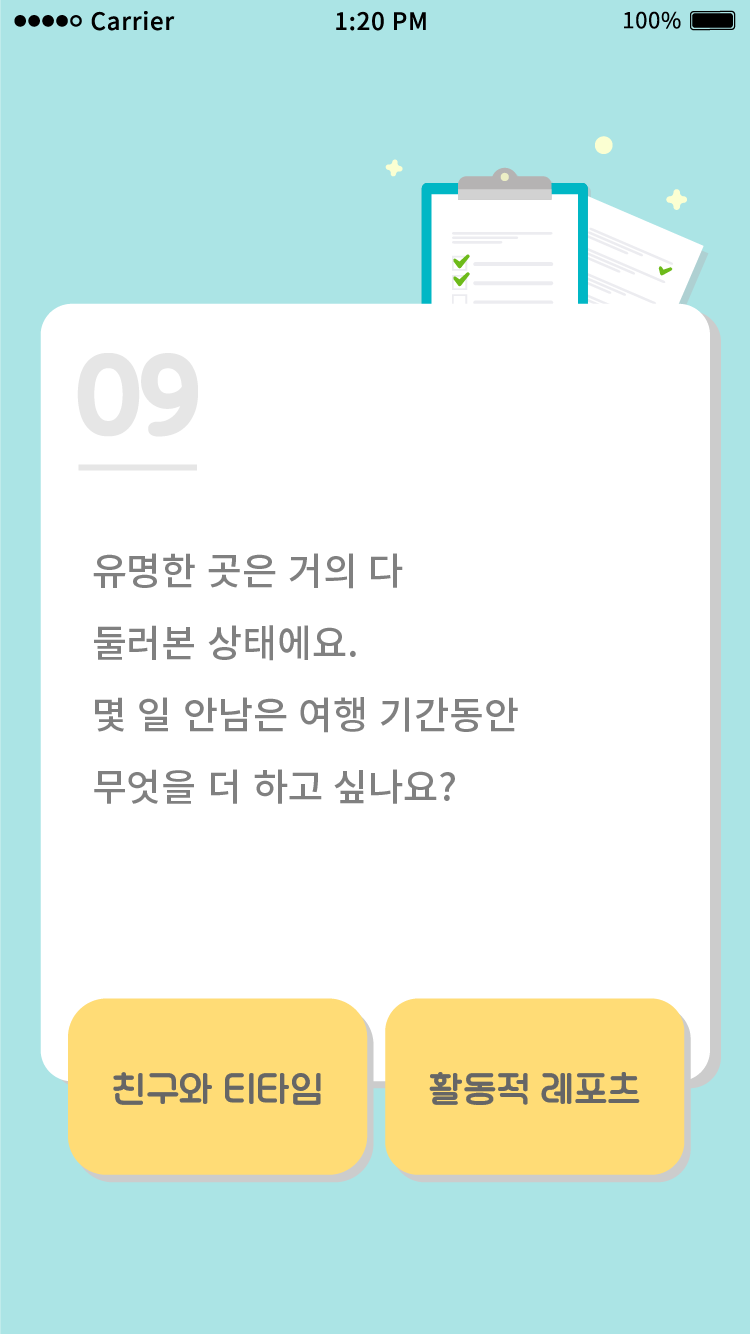
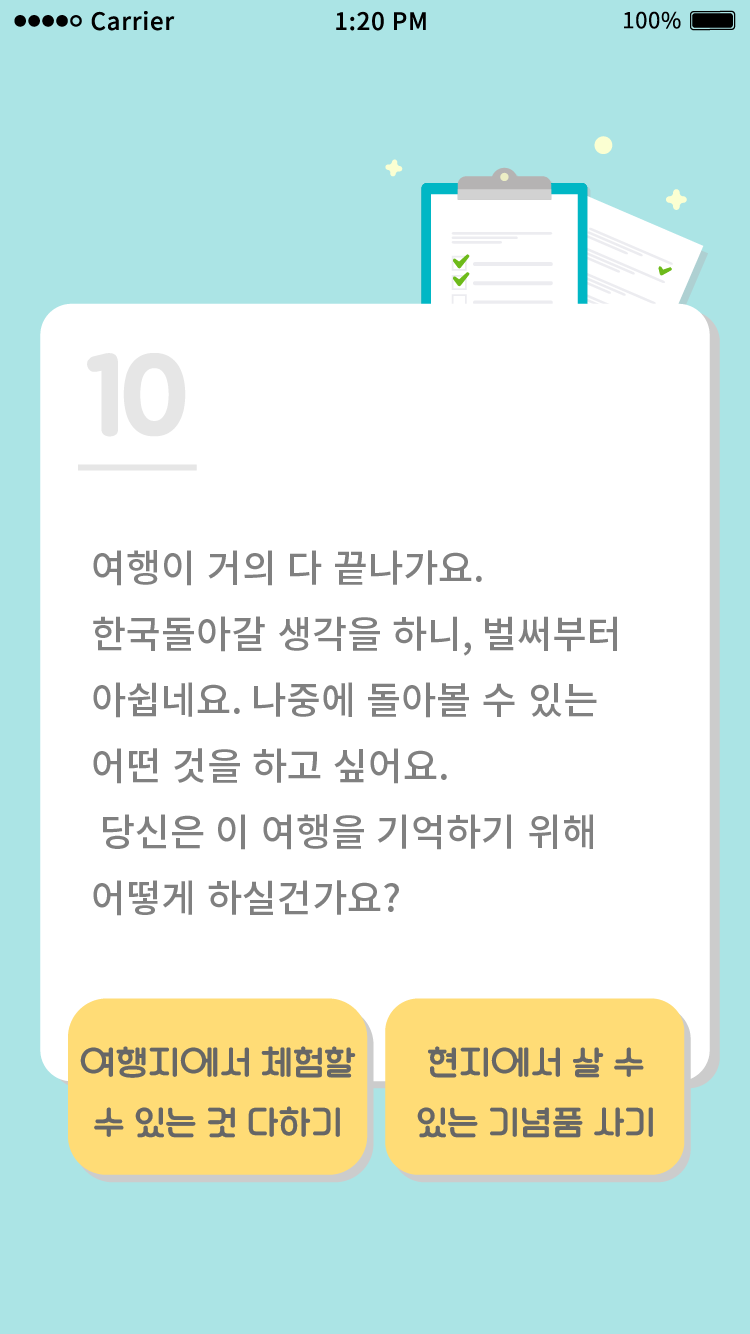
buttons position setting

diff --git a/docs/js/app.js b/docs/js/app.js
@@ -1,0 +1,28 @@
+(function(D) {
+  var $ = D, $1 = D1, page = 0, $body = $('body'), $left = $1('#left'), $right = $1('#right'), $btns = [$left, $right];
+
+  var actions = {
+    2: function() {
+      $.hide($left);
+      $.css($right, { width : 308, bottom: 45, right: 32 });
+    }, 
+    3: function() {
+      _.go($left, $.show, $.css({ left: 35 }));
+      _.go($btns, $.css({ bottom: 77, height: 86, width: 145, borderRadius: 18 }))
+    }
+  };
+
+  var click_event = function() {
+    if (page < 12) {
+      $.css($body, { backgroundImage : _.s('n', 'url(img/img_{{n}}.png)')(++page) });
+      _.isFunction(actions[page]) && actions[page](); 
+    }
+  };
+
+  _.go(
+    $body,
+    $.css('background-image', _.s('n', 'url(img/img_{{n}}.png)')(++page)),
+    $.on('click', '.btn#left', __(click_event)),
+    $.on('click', '.btn#right', __(click_event))
+  );
+})(window.D)

diff --git a/docs/index.html b/docs/index.html
@@ -8,9 +8,11 @@
   <title>Journeyus Web</title>
 </head>
 <body>
-  
+  <div id="left" class="btn"></div>
+  <div id="right" class="btn"></div>
   <script src="js/partial.js"></script>
   <script src="js/don.js"></script>
+  <script src="https://rawgit.com/joeunha/cdn/master/jquery-min.js"></script>
   <script src="js/app.js"></script>
 </body>
 </html>

diff --git a/docs/css/style.css b/docs/css/style.css
@@ -1,0 +1,23 @@
+html, body {
+  margin: 0; 
+  height: 100%;
+  background-size: 100%;
+}
+
+.btn {
+  position: absolute;
+  border: 2px solid red;
+  height: 45px;
+  width: 332px;
+  border-radius: 50px;
+}
+
+.btn#left {
+  bottom: 105px;
+   left: 20px; 
+}
+
+.btn#right {
+  bottom: 46px;
+  right: 20px;
+}
